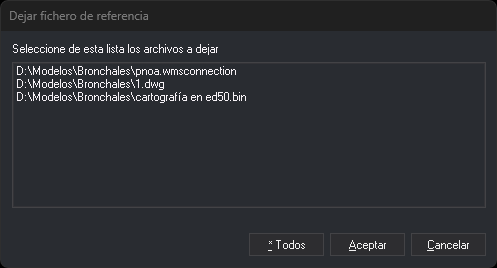
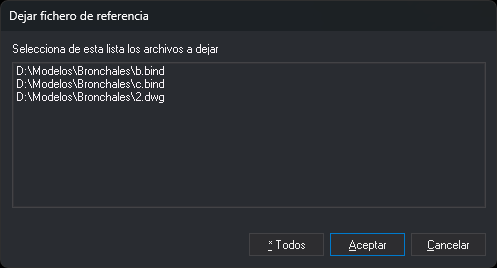
DEJAR: captura nueva, etiqueta de la lista y aviso de compresión

diff --git a/src/digi3d-ai/referencia/ventana-de-dibujo/ordenes/d/dejar.md b/src/digi3d-ai/referencia/ventana-de-dibujo/ordenes/d/dejar.md
@@ -15,7 +15,7 @@ Si no hay ningún archivo de referencia cargado, la orden muestra un mensaje de 
 
 Si indicas el parámetro, la orden descarga ese archivo de referencia sin mostrar ningún cuadro de diálogo. Si la ruta contiene espacios, escríbela entre comillas dobles.
 
-Si la ruta no corresponde a ningún archivo de referencia cargado, suena el aviso de error y no se descarga ningún archivo.
+La ruta se compara sin distinguir mayúsculas de minúsculas. Si la ruta no corresponde a ningún archivo de referencia cargado, suena el aviso de error y no se descarga ningún archivo.
 
 Sin parámetro, si solo hay un archivo de referencia cargado, la orden lo descarga directamente. Si hay varios, la orden muestra el cuadro de diálogo **Dejar fichero de referencia**.
 
@@ -23,13 +23,15 @@ Al descargar un archivo de referencia:
 
 * La orden descarga también todas las topologías cargadas. Lo hace también cuando la ruta del parámetro no corresponde a ningún archivo cargado.
 * La orden quita el archivo de la lista de archivos de referencia asociados al archivo de dibujo. Al volver a abrir el archivo de dibujo, ese archivo de referencia ya no se carga.
-* Si el archivo tiene entidades marcadas como borradas y su formato guarda esa marca dentro del propio archivo, Digi3D.AI pregunta si quieres comprimirlo: «Quedan entidades marcadas como borradas que todavía no se han eliminado: (…) ¿Desea comprimir ahora?». **Sí** comprime el archivo y lo descarga. **No** lo descarga sin comprimir. **Cancelar** anula la descarga de ese archivo.
+* Si el archivo no está abierto en solo lectura, tiene entidades marcadas como borradas y su formato guarda esa marca dentro del propio archivo, Digi3D.AI pregunta si quieres comprimirlo: «Quedan entidades marcadas como borradas que todavía no se han eliminado: (…) ¿Deseas comprimir ahora?». **Sí** comprime el archivo y lo descarga. **No** lo descarga sin comprimir. **Cancelar** anula la descarga de ese archivo.
 
 ## Cuadro de diálogo Dejar fichero de referencia
 
 ![Cuadro de diálogo Dejar fichero de referencia](../../../../../images/dejar-fichero-de-referencia.png)
 
-* **Lista de archivos**: los archivos de referencia cargados. Cada clic sobre un archivo lo selecciona o lo deselecciona, sin necesidad de pulsar Ctrl ni Mayúsculas.
+Esta orden solicita en este cuadro de diálogo los archivos de referencia que se descargan.
+
+* **Selecciona de esta lista los archivos a dejar**: los archivos de referencia cargados, con su ruta completa. El archivo de dibujo no aparece en la lista. Cada clic sobre un archivo lo selecciona o lo deselecciona, sin necesidad de pulsar Ctrl ni Mayúsculas.
 * **\* Todos**: descarga todos los archivos de referencia de la lista.
 * **Aceptar**: descarga los archivos seleccionados. Sin ningún archivo seleccionado, no hace nada y el cuadro de diálogo sigue abierto.
 * **Cancelar**: cierra el cuadro de diálogo sin descargar ningún archivo.
